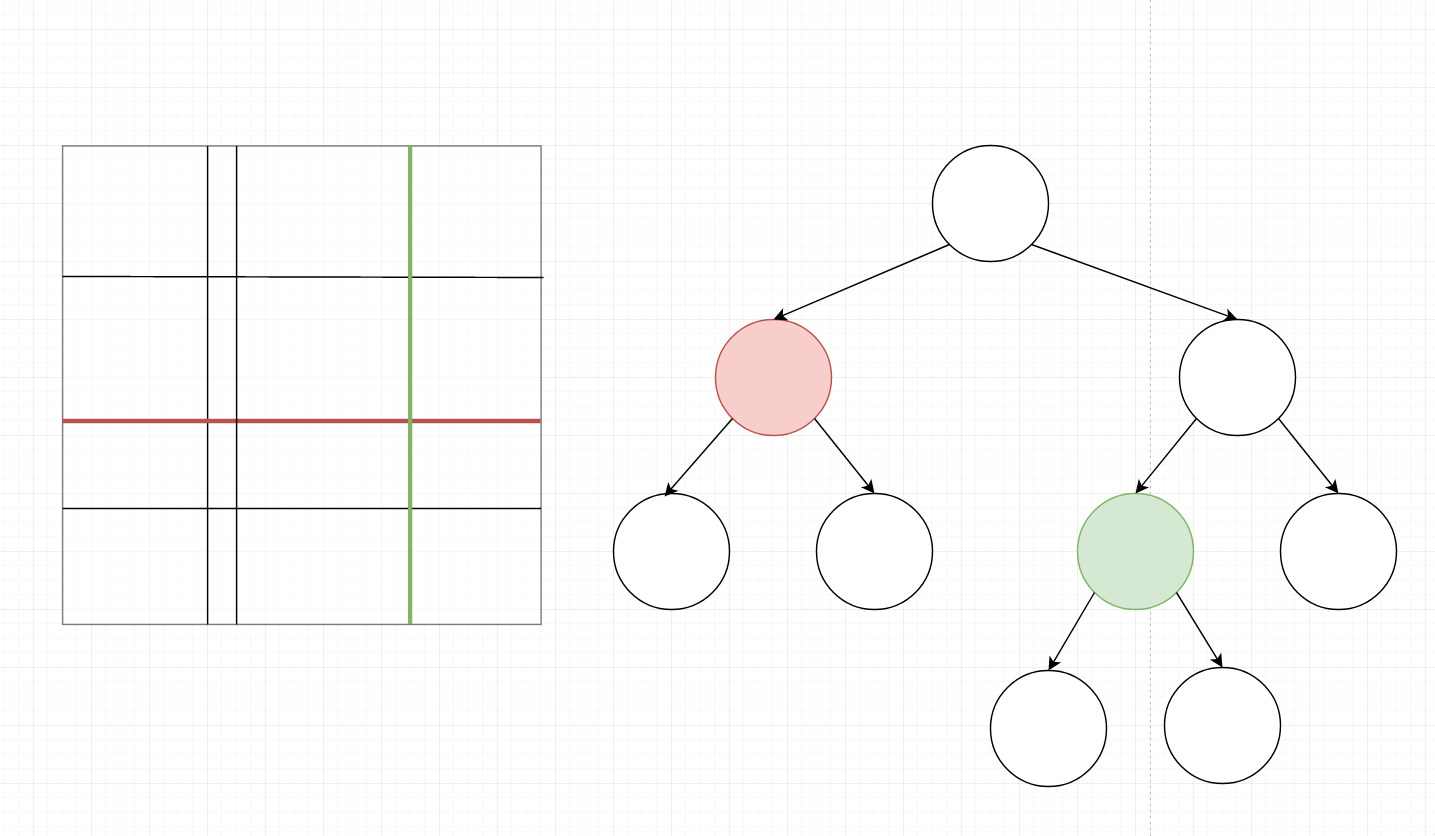
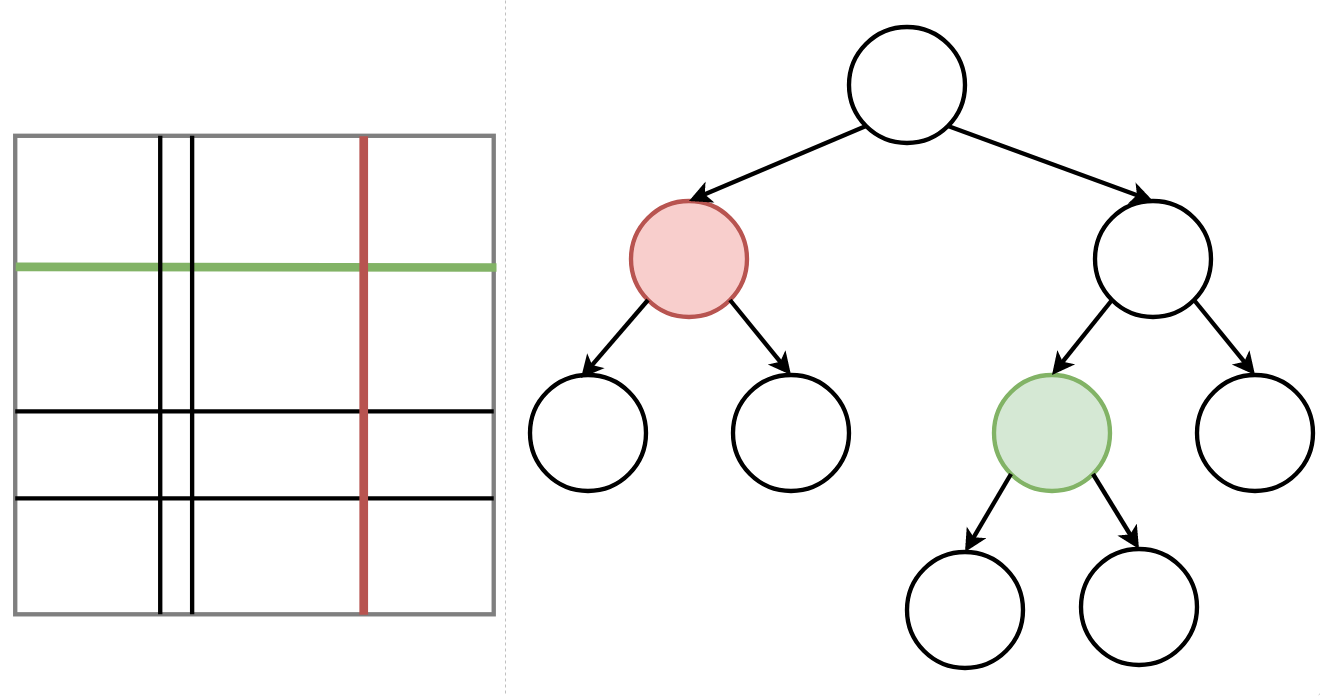
a thing of beauty is a joy forever

diff --git a/smac/optimize.py b/smac/optimize.py
@@ -1,7 +1,7 @@
 import sys
 import time
+import tempfile
 import numpy as np
-from functools import partial
 
 from smac.facade.smac_facade import SMAC
 from smac.utils.util_funcs import get_types
@@ -37,35 +37,47 @@ def optimize(scenario, run, forest=False, seed=8):
     return smac.get_tae_runner().run(incumbent, 1)[1]
 
 
-def log(seed, forest, random, def_value, data_name):
-    sys.stderr.write("\r--%d--   %.4lf±%.4lf\t||\t%.4lf±%.4lf\t||\t%lf\t(%s) " % (
-        seed, np.mean(forest), np.std(forest), np.mean(random), np.std(random), def_value, data_name
-    ))
+def log(seed, forest, random, def_value, data_name, cnt, max_cnt, before=False):
+    sys.stderr.write("\r--%d--   %.4lf±%.4lf   ||      %.4lf±%.4lf   ||      %.4lf      [%d/%d]  (%s) " % (
+        seed, np.mean(forest), np.std(forest), np.mean(random), np.std(random), def_value, cnt, max_cnt, data_name
+    ) + ("[ " if before else "[]") + "     ")
 
 
 def run_tests(scenarios, configs, datasets, tests_count, output_dir):
-    with open(output_dir+"forest.csv", "w") as forest_out, open(output_dir+"random.csv", "w") as random_out:
-        sys.stderr.write("\tForest\t\tvs\tRandom\t\t||\tDefault")
-        for scenario, scenario_name in scenarios:
-            sys.stderr.write("\n\t\t==%s" % scenario_name)
-            for cs, run, config_name in configs:
-                sys.stderr.write("\n\t\t~~~~%s" % config_name)
-                scenario.cs = cs
-                for dataset, data_name in datasets:
-                    def log_run(cfg):
-                        return run(dataset, seed, cfg)
-                    forest = []
-                    random = []
-                    def_value = run(dataset, 0, cs.get_default_configuration())
-                    sys.stderr.write("\n")
-                    sys.stderr.write("\rstarting...")
-                    for seed in range(tests_count):
-                        random.append(optimize(scenario, log_run, forest=False, seed=seed))
-                        forest.append(optimize(scenario, log_run, forest=True, seed=seed))
-                        log(seed, forest, random, def_value, data_name)
-                    forest_out.write("%s, %s, %s, %lf, %lf\n" %
-                                     (scenario_name, config_name, data_name, np.mean(forest), np.std(forest)))
-                    random_out.write("%s, %s, %s, %lf, %lf\n" %
-                                     (scenario_name, config_name, data_name, np.mean(random), np.std(random)))
-                    forest_out.flush()
-                    random_out.flush()
+    fp = tempfile.TemporaryFile(mode="r+")
+    with open(fp.name,'r+') as f:
+        with open(output_dir+"forest.csv", "w") as forest_out, open(output_dir+"random.csv", "w") as random_out:
+            sys.stderr.write("\tForest\t\tvs\tRandom\t\t||\tDefault")
+            for scenario, scenario_name in scenarios:
+                max_cnt = scenario.ta_run_limit;
+                sys.stderr.write("\n\t\t==%s" % scenario_name)
+                for cs, run, config_name in configs:
+                    sys.stderr.write("\n\t\t~~~~%s" % config_name)
+                    scenario.cs = cs
+                    for dataset, data_name in datasets:
+                        def log_run(cfg):
+                            f.seek(0)
+                            cnt = len(f.read())
+                            log(seed, forest, random, def_value, data_name, cnt, max_cnt, True)
+                            f.write(".")
+                            f.flush()
+                            result = run(dataset, seed, cfg)
+                            log(seed, forest, random, def_value, data_name, cnt + 1, max_cnt, False)
+                            return result
+                        forest = []
+                        random = []
+                        def_value = run(dataset, 0, cs.get_default_configuration())
+                        sys.stderr.write("\n")
+                        sys.stderr.write("\rstarting...")
+                        for seed in range(tests_count):
+                            f.truncate(0)
+                            random.append(optimize(scenario, log_run, forest=False, seed=seed))
+                            f.truncate(0)
+                            forest.append(optimize(scenario, log_run, forest=True, seed=seed))
+                        log(seed, forest, random, def_value, data_name, max_cnt, max_cnt)
+                        forest_out.write("%s, %s, %s, %lf, %lf\n" %
+                                        (scenario_name, config_name, data_name, np.mean(forest), np.std(forest)))
+                        random_out.write("%s, %s, %s, %lf, %lf\n" %
+                                        (scenario_name, config_name, data_name, np.mean(random), np.std(random)))
+                        forest_out.flush()
+                        random_out.flush()

diff --git a/doc/slides.tex b/doc/slides.tex
@@ -40,6 +40,7 @@
 \begin{document}
 
 \begin{frame}
+\thispagestyle{empty}
 \maketitle
 {\small 
     \textbf{Формальный научный руководитель:}\par Фильченков Андрей Александрович\par
@@ -68,14 +69,14 @@
     \vfill
 \end{frame}
 
-\begin{frame} \frametitle{Random Forest}
+\begin{frame} \frametitle{Случайный лес}
     \begin{columns}
         \column{.6\textwidth}
             \begin{itemize}
                 \item Ансамбль деревьев принятия решения
-                \item Каждое дерево обучено на случном подмножестве
+                \item Каждое дерево обучено на случной подвыборке
                 \item Результат: среднее всех деревьев 
-                \item Пространство разбивается на прямоугольники по границам разбиения вершин
+                \item Пространство разбивается на прямоугольники по границам разветвления вершин
             \end{itemize}
         \column{.4\textwidth}
         \includegraphics[width=\textwidth]{random_forest.png}
@@ -91,7 +92,11 @@
                 \item Поддерживаем, что все поддеревья пересекаются
             \end{itemize}
         \column{.5\textwidth}
-            \includegraphics[width=\textwidth]{tree.png}
+            \begin{center}
+            \includegraphics[height=0.8\textheight]{tree.png}
+
+            алгоритм рассматривает синие вершины двух деревьев
+            \end{center}
     \end{columns}
 \end{frame}
 
@@ -123,7 +128,7 @@
         value[v] < \alpha current
     \]
 
-    Гарантирует точность $>\alpha$
+    Гарантирует погрешность $<\alpha$
 \end{frame}
 
 \begin{frame} \frametitle{Эвристический алгоритм (Оптимизация 2)}
@@ -549,6 +554,60 @@
         Эвристика, 
         Случайный, 
     }
+
+    \end{axis}
+    \end{tikzpicture}
+    \end{center}
+\end{frame}
+
+\begin{frame} \frametitle{Тестирование | SMAC}
+    \pgfplotstableread[col sep=comma, header=false]{../data/smac/limits/new_iris_forest.csv}\forestiris
+    \pgfplotstableread[col sep=comma, header=false]{../data/smac/limits/new_iris_random.csv}\randomiris
+    \pgfplotstableread[col sep=comma, header=false]{../data/smac/limits/new_leter_forest.csv}\forestletter
+    \pgfplotstableread[col sep=comma, header=false]{../data/smac/limits/new_leter_random.csv}\randomletter
+    \pgfplotstableread[col sep=comma, header=false]{../data/smac/limits/new_gina_forest.csv}\forestgina
+    \pgfplotstableread[col sep=comma, header=false]{../data/smac/limits/new_gina_random.csv}\randomgina
+    \begin{center}
+    \begin{tikzpicture}
+    \begin{axis}[
+        enlarge x limits=0.2,
+        width=1\textwidth,
+        height=0.8\textwidth,
+        ymin=0,
+        xlabel=Размер пространства гиперпараметров,
+        ylabel=1-fмера,
+        xtick=data,
+        scatter/classes={a={mark=o}},
+    ]
+    \addplot 
+        [scatter, color=heusome]
+        % plot [error bars/.cd, error bar style={line width=1pt}, y dir = both, y explicit]
+        table[x index=2, y index=4, y error index=5]{\forestiris};
+    \addplot 
+        [scatter, color=heuno]
+        % plot [error bars/.cd, error bar style={line width=1pt}, y dir = both, y explicit]
+        table[x index=2, y index=4, y error index=5]{\randomiris};
+    \addplot 
+        [scatter, color=basicsome]
+        % plot [error bars/.cd, error bar style={line width=1pt}, y dir = both, y explicit]
+        table[x index=2, y index=4, y error index=5]{\forestletter};
+    \addplot 
+        [scatter, color=basicno]
+        % plot [error bars/.cd, error bar style={line width=1pt}, y dir = both, y explicit]
+        table[x index=2, y index=4, y error index=5]{\randomletter};
+    \addplot 
+        [scatter, color=gena]
+        % plot [error bars/.cd, error bar style={line width=1pt}, y dir = both, y explicit]
+        table[x index=2, y index=4, y error index=5]{\forestgina};
+    \addplot 
+        [scatter, color=random]
+        % plot [error bars/.cd, error bar style={line width=1pt}, y dir = both, y explicit]
+        table[x index=2, y index=4, y error index=5]{\randomgina};
+
+    % \legend{%
+    %     Эвристика, 
+    %     Случайный, 
+    % }
 
     \end{axis}
     \end{tikzpicture}

diff --git a/smac/configs.py b/smac/configs.py
@@ -4,7 +4,7 @@ from smac.configspace import ConfigurationSpace
 from ConfigSpace.hyperparameters import UniformFloatHyperparameter, UniformIntegerHyperparameter
 
 from sklearn.linear_model import SGDClassifier, Ridge
-from sklearn.neural_network import MLPRegressor
+from sklearn.neural_network import MLPRegressor, MLPClassifier
 from sklearn.ensemble import RandomForestClassifier, RandomForestRegressor
 from sklearn.tree import DecisionTreeClassifier
 
@@ -56,11 +56,12 @@ def rf_configs():
     return (cs, run, "Random Forest")
 
 
-def tree_configs():
+def tree_configs(scale=1.0):
     def run(dataset, seed, cfg):
         cfg = {k: cfg[k] for k in cfg}
-        cfg["criterion"] = criterion[cfg["criterion"]]
-        cfg["splitter"] = splitter[cfg["splitter"]]
+        if scale > 0.4:
+            cfg["criterion"] = criterion[cfg["criterion"]]
+            cfg["splitter"] = splitter[cfg["splitter"]]
         clf = DecisionTreeClassifier(random_state=seed, **cfg)
         scores = cross_val_score(clf, dataset.data, dataset.target, cv=5)
         return 1 - np.mean(scores)
@@ -69,15 +70,18 @@ def tree_configs():
     splitter = ["best", "random"]
     cs = ConfigurationSpace()
     cs.add_hyperparameters([
-        UniformIntegerHyperparameter("criterion", 0, 1),
-        UniformIntegerHyperparameter("splitter", 0, 1),
-        UniformIntegerHyperparameter("max_depth", 10, 1000),
-        UniformIntegerHyperparameter("min_samples_leaf", 1, 200),
-        UniformIntegerHyperparameter("min_samples_split", 2, 100),
-        UniformFloatHyperparameter("min_weight_fraction_leaf", 0.0, 0.5),
-        UniformFloatHyperparameter("min_impurity_decrease", 0.0, 0.9),
+        UniformIntegerHyperparameter("max_depth", 10, 1500*scale),
+        UniformIntegerHyperparameter("min_samples_leaf", 1, 400*scale),
+        UniformIntegerHyperparameter("min_samples_split", 2, 300*scale),
+        UniformFloatHyperparameter("min_weight_fraction_leaf", 0.0, 0.5*scale),
+        UniformFloatHyperparameter("min_impurity_decrease", 0.0, 1.0*scale),
     ])
-    return (cs, run, "Desicion Tree")
+    if scale > 0.4:
+        cs.add_hyperparameters([
+            UniformIntegerHyperparameter("criterion", 0, 1),
+            UniformIntegerHyperparameter("splitter", 0, 1),
+        ])
+    return (cs, run, "Desicion Tree, %.2lf" % scale)
 
 
 def ridge_configs():
@@ -100,6 +104,28 @@ def ridge_configs():
     return (cs, run, "Ridge")
 
 
+def clf_mlp_configs():
+    def run(dataset, seed, cfg):
+        cfg = {k: cfg[k] for k in cfg}
+        cfg["activation"] = activation[cfg["activation"]]
+        cfg["solver"] = solver[cfg["solver"]]
+        clf = MLPClassifier(random_state=seed, **cfg)
+        scores = cross_val_score(clf, dataset.data, dataset.target, cv=5)
+        return 1 - np.mean(scores)
+
+    activation = ["identity", "logistic", "tanh", "relu"]
+    solver = ["lbfgs", "sgd", "adam"]
+    cs = ConfigurationSpace()
+    cs.add_hyperparameters([
+        UniformIntegerHyperparameter("activation", 0, 3),
+        UniformIntegerHyperparameter("solver", 0, 2),
+        UniformFloatHyperparameter("tol", 1e-7, 1e-1),
+        UniformFloatHyperparameter("alpha", 1e-7, 1e-1),
+        UniformIntegerHyperparameter("max_iter", 10, 1000),
+    ])
+    return (cs, run, "Clf MLP")
+
+
 def mlp_configs():
     def run(dataset, seed, cfg):
         cfg = {k: cfg[k] for k in cfg}
@@ -120,7 +146,7 @@ def mlp_configs():
         UniformFloatHyperparameter("alpha", 1e-7, 1e-1),
         UniformIntegerHyperparameter("max_iter", 10, 1000),
     ])
-    return (cs, run, "Ridge")
+    return (cs, run, "MLP")
 
 def rf_reg_configs():
     def run(dataset, seed, cfg):

diff --git a/smac/test.py b/smac/test.py
@@ -14,40 +14,44 @@ scenarios = [
         "runcount_limit": 50,
         "deterministic": "true",
         "memory_limit": 3072,
-        "output_dir": "./logs/"
-    }), "honest"),
-
-    (Scenario({
-        "run_obj": "quality",
-        "runcount_limit": 50,
-        "deterministic": "true",
-        "memory_limit": 3072,
         "acq_opt_challengers": 100,
         "output_dir": "./logs/"
-    }), "cheat"),
+    }), "normal"),
 ]
 
 confs = [
     configs.tree_configs(),
-    configs.rf_configs(),
-    configs.sgd_configs(),
+    configs.tree_configs(0.8),
+    configs.tree_configs(0.5),
+    configs.tree_configs(0.2),
+    # configs.clf_mlp_configs(),
+    # configs.rf_configs(),
+    # configs.sgd_configs(),
 ]
-
-datas = [
-    (datasets.load_iris(), "iris"),
-    (datasets.fetch_openml(name="letter"), "letter"),
-    (datasets.fetch_openml(name="gina_agnostic"), "gina-agnostic"),
-    (datasets.fetch_openml(name="credit-g"), "credit-g"),
-    (datasets.fetch_openml(name="monks-problems-2"), "monks-problems-2"),
-    (datasets.fetch_openml(name="tic-tac-toe"), "tic-tac-toe"),
-]
-
-run_tests(scenarios, confs, datas, tests_count=10, output_dir="./")
 
 # datas = [
-#     (datasets.fetch_openml(name="mtp2"), "mtp2"),
+#     (datasets.load_iris(), "iris"),
+#     (datasets.fetch_openml(name="letter"), "letter"),
+#     (datasets.fetch_openml(name="gina_agnostic"), "gina-agnostic"),
+#     # (datasets.fetch_openml(name="credit-g"), "credit-g"),
+#     # (datasets.fetch_openml(name="monks-problems-2"), "monks-problems-2"),
+#     # (datasets.fetch_openml(name="tic-tac-toe"), "tic-tac-toe"),
+# ]
+
+
+datas = [(datasets.load_iris(), "iris")]
+run_tests(scenarios, confs, datas, tests_count=5, output_dir="../data/smac/limits/new_iris_")
+datas = [(datasets.fetch_openml(name="letter"), "letter")]
+run_tests(scenarios, confs, datas, tests_count=5, output_dir="../data/smac/limits/new_leter_")
+datas = [(datasets.fetch_openml(name="gina_agnostic"), "gina-agnostic")]
+run_tests(scenarios, confs, datas, tests_count=5, output_dir="../data/smac/limits/new_gina_")
+
+run_tests(scenarios, confs, datas, tests_count=10, output_dir="../data/smac/limits/new_")
+
+# datas = [
+#     # (datasets.load_diabetes(), "diabetes"),
 #     (datasets.fetch_openml(name="kin8nm"), "kin"),
-#     (datasets.load_diabetes(), "diabetes"),
+#     (datasets.fetch_openml(name="mtp2"), "mtp2"),
 # ]
 
 # confs = [
